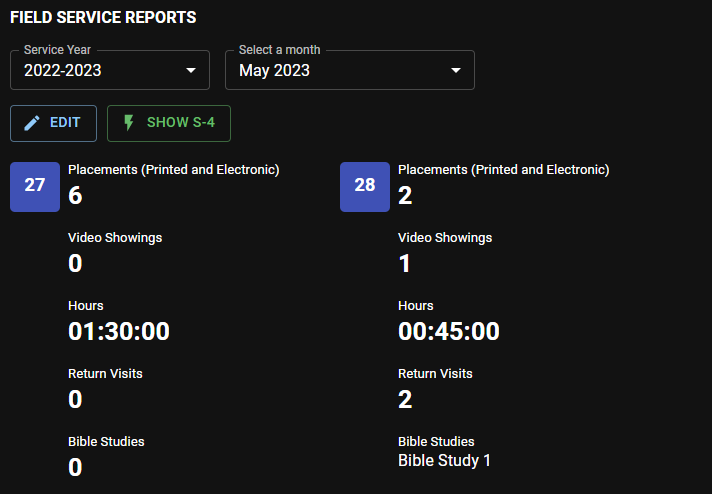
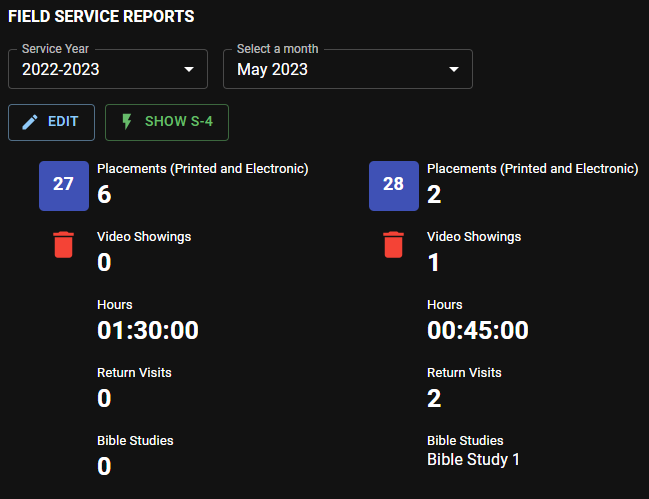
feat(reports): add docs for delete report option

diff --git a/i18n/mg/docusaurus-plugin-content-pages/about.md b/i18n/mg/docusaurus-plugin-content-pages/about.md
@@ -1,0 +1,23 @@
+---
+title: Momba Anay
+description: Momba Anay | Scheduling Workbox System Team
+hide_table_of_contents: true
+---
+
+# Momba Anay
+
+Namorona anarana ekipa antsoina hoe _Scheduling Workbox System_, ary ny tanjonay dia ny hanampy ny fiangonan’ny Vavolombelon’i Jehovah mba hamita tsara ny andraikiny. Manamboatra programa _web_ maoderina kokoa izahay, mba hanatsorana ny asan’ireo rahalahy ao amin’ny Fiangonana.
+
+## Hiditra ao amin’ny Ekipa
+
+Te hiditra ao amin’ny ekipanay ve ianao? Matoky tanteraka izahay hoe ‘tanteraka izay kasaina rehefa be dia be ny mpanoro hevitra.’ Afaka ny ho iray amin’ireo mpanoro hevitra anay ianao, raha mitsidika ny pejinay ao amin’ny [GitHub](https://github.com/sws2apps). Jereo ao izay asa ataonay tianao hanampiana anay, dia vakio ny toromarika misy ny fomba hanaovana an’izany.
+
+## Hifandray Aminay
+
+Asa misalasala mandefa hafatra aty aminay, ao amin’ny sws2apps.notification@gmail.com.
+
+## Hanohana ny asa ataonay
+
+***Tsy andoavam-bola*** ny fampiasana ny programa amboarinay. 😉 Tsy voatery ho mora foana anefa ny manamboatra sy mikojakoja programa. Mitaky fotoana, hery ary fananana izany. Tena mankasitraka ny fahalalan-tanan’ireo izay vonona hanampy anay ary izahay.
+
+<iframe id='kofiframe' src='https://ko-fi.com/sws2apps/?hidefeed=true&widget=true&embed=true&preview=true' height='712' title='sws2apps' style={{border: 'none', width: '100%', padding: '4px', background: '#f9f9f9'}}></iframe>

diff --git a/src/pages/about.md b/src/pages/about.md
@@ -18,6 +18,6 @@ Feel free to send an email to sws2apps.notification@gmail.com.
 
 ## Support our work
 
-Our applications are completely **free.** Yes, you read it right! 😉 But building and maintaining an application is not easy. It involves time, energy and costs. Therefore, we really appreciate the generosity of those who support our works.
+Our applications are completely **free.** 😉 But building and maintaining an application is not easy. It involves time, energy and costs. Therefore, we really appreciate the generosity of those who support our works.
 
 <iframe id='kofiframe' src='https://ko-fi.com/sws2apps/?hidefeed=true&widget=true&embed=true&preview=true' height='712' title='sws2apps' style={{border: 'none', width: '100%', padding: '4px', background: '#f9f9f9'}}></iframe>

diff --git a/i18n/mg/docusaurus-plugin-content-docs/current/products/cpe/features/reports/my_reports.md b/i18n/mg/docusaurus-plugin-content-docs/current/products/cpe/features/reports/my_reports.md
@@ -30,6 +30,10 @@ Afaka ampiasaina mba hanisana ny ora nanaovana ny fanompoana koa ny CPE. Tsindri
 
 Ny lisitra avy any amin’ny [firaketana momba ny mpianatra Baibolinao](./my_bible_studies) no ampiasaina eto. Raha tsy misy anarana miseho eto, dia ataovy azo antoka hoe manana firaketana momba ny mpianatra Baiboly mbola ampiasaina ianao.
 
+### Hamafa tatitra
+
+Raha hamafa ny firaketana ny tatitra momba ny fanompoana ho an’ny andro anankiray, dia karohy eo amin’ilay lisitra ilay tatitra, dia tsindrio avy hoe ilay sary kely hoe ***Hamafa***.
+
 ## Tatitra Momba ny Fanompoana S-4
 
 - Tsindrio ilay hoe **Aseho (S-4)** raha te hikajy sy hampiseho ny tatitra momba ny fanompoana ho an’ilay volana.

diff --git a/docs/products/cpe/features/reports/my_reports.md b/docs/products/cpe/features/reports/my_reports.md
@@ -30,6 +30,10 @@ CPE can be used as a stopwatch to record the time you spent in the field ministr
 
 This entry will use your [Bible Study records](./my_bible_studies). If no record appears, please make sure you have active Bible Studies records.
 
+### Delete record
+
+To delete a daily report, find it from the list, and click the ***Delete*** icon.
+
 ## S-4 Field Service Report
 
 - Click the **Show S-4** button to generate and display the monthly field service report.
